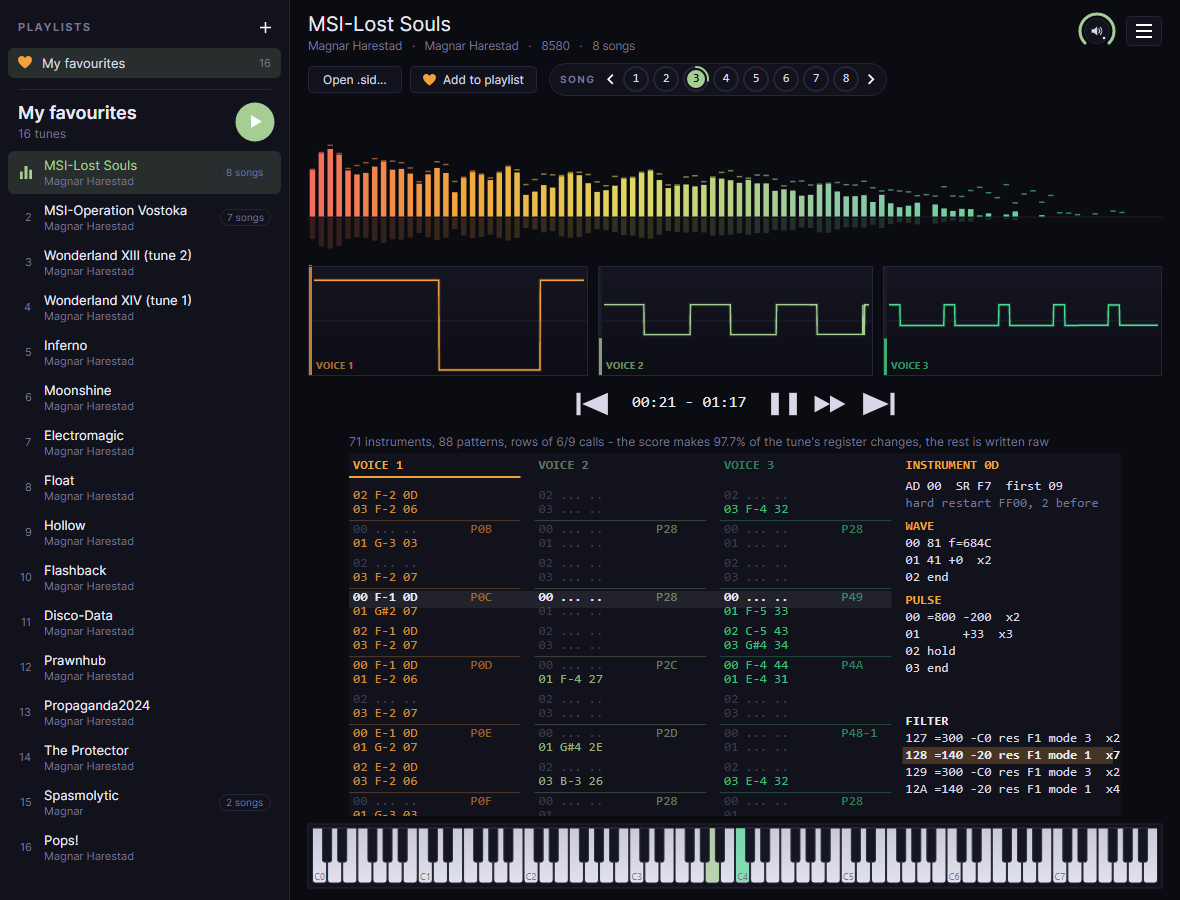
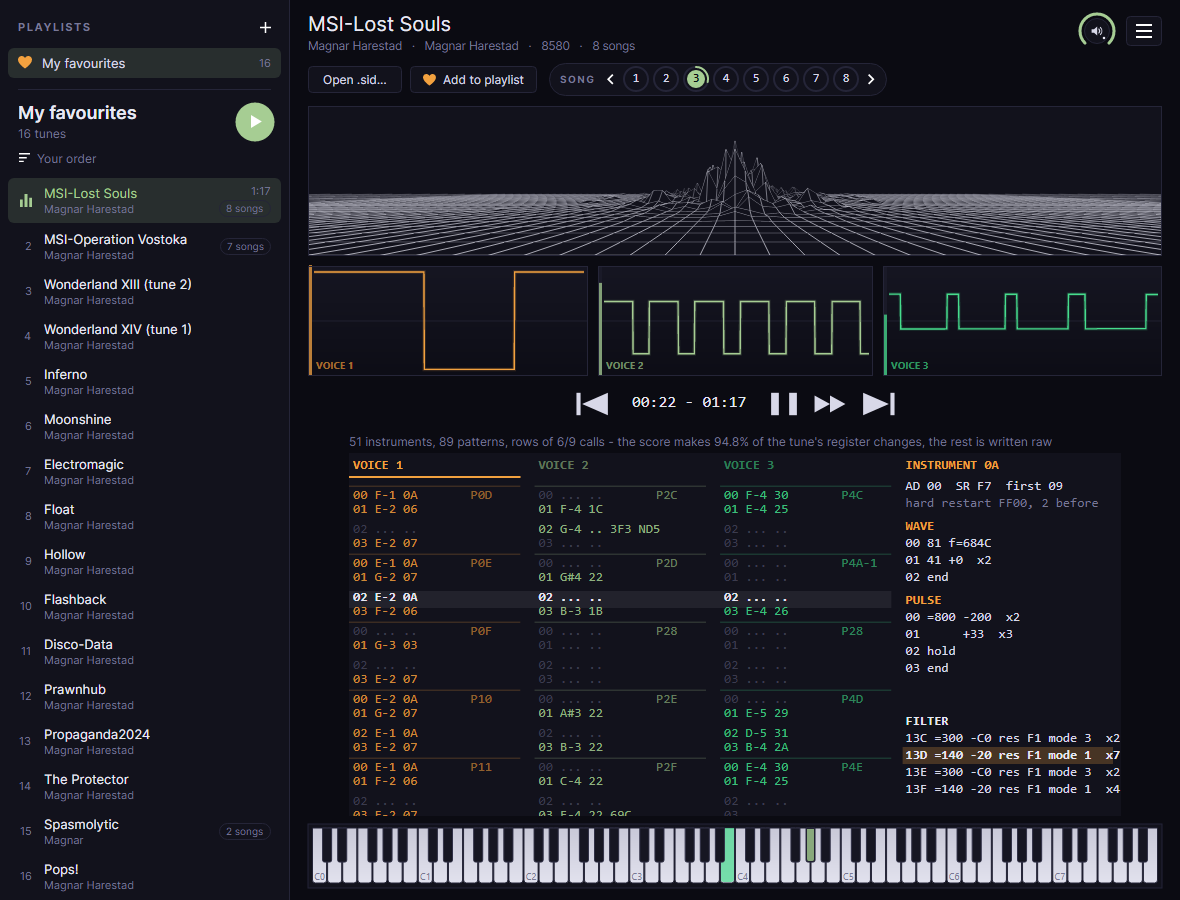
1.22: the website on meters, sorting and Open folder as playlist

diff --git a/docs/index.html b/docs/index.html
@@ -15,8 +15,8 @@
 <main class="wrap">
   <section class="hero">
     <img src="logo.png" alt="MagPlaySID logo">
-    <h1>MagPlaySID <span id="version">v1.21</span></h1>
-    <p class="released">Release date: <time id="released" datetime="2026-10-31">2026-10-31</time></p>
+    <h1>MagPlaySID <span id="version">v1.22</span></h1>
+    <p class="released">Release date: <time id="released" datetime="2026-11-01">2026-11-01</time></p>
     <p>A player for Commodore 64 music that shows how a tune is built. Drop any <code>.sid</code> on it:
       it plays on an emulated C64, and you see it as a tracker would - its notes, instruments and effects
       in rows that scroll with the music. Drop a whole folder and it becomes a playlist; keep the tunes
@@ -25,17 +25,17 @@
       <a class="button" id="windows" href="https://github.com/MagnarHarestad/MagPlaySID/releases/latest">Download for Windows</a>
       <small>Free and open source · Windows 10/11, 64-bit · nothing to install, .NET is inside</small>
       <p class="also">Also for
-        <a id="macos-arm64" href="https://github.com/MagnarHarestad/MagPlaySID/releases/download/v1.21/MagPlaySID-1.21-macos-arm64.zip">macOS · Apple Silicon</a>
-        <a id="macos-x64" href="https://github.com/MagnarHarestad/MagPlaySID/releases/download/v1.21/MagPlaySID-1.21-macos-x64.zip">macOS · Intel</a>
-        <a id="linux-x64" href="https://github.com/MagnarHarestad/MagPlaySID/releases/download/v1.21/MagPlaySID-1.21-linux-x64.tar.gz">Linux · x64</a>
+        <a id="macos-arm64" href="https://github.com/MagnarHarestad/MagPlaySID/releases/download/v1.22/MagPlaySID-1.22-macos-arm64.zip">macOS · Apple Silicon</a>
+        <a id="macos-x64" href="https://github.com/MagnarHarestad/MagPlaySID/releases/download/v1.22/MagPlaySID-1.22-macos-x64.zip">macOS · Intel</a>
+        <a id="linux-x64" href="https://github.com/MagnarHarestad/MagPlaySID/releases/download/v1.22/MagPlaySID-1.22-linux-x64.tar.gz">Linux · x64</a>
         <a class="plain" id="notes" href="https://github.com/MagnarHarestad/MagPlaySID/releases/latest">release notes</a>
         <a class="plain" href="#mac">opening it on a Mac</a></p>
     </div>
   </section>
 
   <figure class="shot">
-    <img src="screenshots/player.png" width="1180" height="900" alt="MagPlaySID playing MSI-Lost Souls from a favourites playlist: the playlist down the left, the tune's eight songs beside Add to playlist with the third playing, a spectrum, a scope per voice, the tune's rows with the selected voice's instrument beside them, and a piano along the bottom">
-    <figcaption>Your favourites as a playlist down the left; a tune's songs as buttons, a ring showing how far the one playing has got; a spectrum and a scope per voice; the tracker rows scrolling beside the instrument sounding and its wave, pulse and filter programs; and a piano lighting each voice's key.</figcaption>
+    <img src="screenshots/player.png" width="1180" height="900" alt="MagPlaySID playing MSI-Lost Souls from a favourites playlist: the playlist down the left, the tune's eight songs beside Add to playlist with the third playing, the sound as a wireframe landscape to fly into, a scope per voice, the tune's rows with the selected voice's instrument beside them, and a piano along the bottom">
+    <figcaption>Your favourites as a playlist down the left; a tune's songs as buttons, a ring showing how far the one playing has got; the sound as a landscape to fly into - one of three meters - and a scope per voice; the tracker rows scrolling beside the instrument sounding and its wave, pulse and filter programs; and a piano lighting each voice's key.</figcaption>
   </figure>
 
   <h2 id="features">What it does</h2>
@@ -49,23 +49,25 @@
     <div class="card"><div class="i">🎛</div><h3>2SID and 3SID</h3><p>Tunes for two or three SID chips play on all of them, each the model its header names, with a scope and score columns for every voice.</p></div>
     <div class="card"><div class="i">📝</div><h3>Sheet music and text</h3><p><b>Export notes</b> in the menu saves the song playing as the rows read it. <b>As sheet music</b>: a PDF with a staff for each voice, its clef chosen line by line, the notes, rests, ties, sharps and naturals in bars of 4/4, and the tempo. <b>As text</b>: each voice's notes, instruments and effects with their bar, beat and time.</p></div>
     <div class="card"><div class="i">📂</div><h3>Drop and play</h3><p>Drag a <code>.sid</code> from the desktop onto the window, open one, or name it on the command line. Space pauses, and the rows stop with the music; in a playlist, the arrow keys go to the tune before or after.</p></div>
-    <div class="card"><div class="i">🎶</div><h3>Playlists</h3><p>Drop a folder of <code>.sid</code> files - or several tunes - on the window and it becomes a playlist down the left, played one tune after another, each moving on once it has played its length. Make playlists of your favourites from any tune with <b>♥ Add to playlist</b> or a right-click; drag a tune up or down to change the order. <b>Show playlists</b> in the menu opens and hides the strip.</p></div>
+    <div class="card"><div class="i">🎶</div><h3>Playlists</h3><p>Drop a folder of <code>.sid</code> files - or several tunes - on the window and it becomes a playlist down the left, played one tune after another, each moving on once it has played its length; <b>Open folder as playlist</b> in the menu does the same. Make playlists of your favourites from any tune with <b>♥ Add to playlist</b> or a right-click; drag a tune up or down to change the order. <b>Show playlists</b> in the menu opens and hides the strip.</p></div>
+    <div class="card"><div class="i">↕</div><h3>Sort a playlist</h3><p>The button above the tunes sorts them by release year, title, composer, group, file date, number of songs, length, recently played or most played - or shuffles them - and your own order is always there to go back to. Playing a tune saves its length and plays on your PC, so those sorts need nothing measured beforehand; tunes not played yet come last.</p></div>
+    <div class="card"><div class="i">🌄</div><h3>Three meters</h3><p>See the sound as classic spectrum bars, as a wireframe landscape to fly into with the bass in peaks down the middle, or as neon bars mirrored about a glowing line. Click the meter for the next, or choose one under <b>Meter</b> in the menu; it is remembered.</p></div>
     <div class="card"><div class="i">🔢</div><h3>Every song</h3><p>A tune of several songs shows them as round buttons beside Add to playlist, the one playing ringed as it goes: click one, or press 1-9, + and -. Previous and Next move between tunes, and <b>Play every song of a tune</b> in the menu plays all of a tune's songs before the next.</p></div>
     <div class="card"><div class="i">⏩</div><h3>Hold to fast-forward</h3><p>Hold the fast-forward button beside play - or the F key - and the tune runs four times as fast, quietly, with the clock, scopes, rows and piano keeping up. Let go and it plays on as before.</p></div>
     <div class="card"><div class="i">⚙</div><h3>Yours to set</h3><p>The knob at the top right sets the volume: drag or scroll it, click to mute. In the menu beside it, <b>Big font</b> makes the rows, the tune's details and the labels a quarter larger. <b>Check for updates at start</b> - asked once, the first time - looks for a newer version each time MagPlaySID opens, and offers this page when there is one.</p></div>
   </div>
 
   <figure class="shot">
-    <img src="screenshots/playlist.png" width="1180" height="900" alt="MagPlaySID playing Golf Dash Extended from a folder dropped on the window: the folder as a playlist above the favourites, its seven tunes listed with how many songs each has, and the tune's three songs beside Add to playlist">
-    <figcaption>A folder dropped on the window, as a playlist above your favourites: its tunes in order, played one after another; the one playing lit; a badge on each tune that has several songs; and a round button that plays the playlist from the top.</figcaption>
+    <img src="screenshots/playlist.png" width="1180" height="900" alt="MagPlaySID playing Golf Dash Extended from a folder dropped on the window: the folder as a playlist above the favourites, its seven tunes listed with how many songs each has and the length of the tune played, a sort button above them, neon meter bars, and the tune's three songs beside Add to playlist">
+    <figcaption>A folder dropped on the window, as a playlist above your favourites: its tunes in order, played one after another; the one playing lit; a badge on each tune that has several songs, and the length of each once played; a button to sort them; a round button that plays the playlist from the top; and here the neon meter.</figcaption>
   </figure>
 
   <h2 id="start">Get started</h2>
   <ol class="steps">
     <li>Download the package for your system from the <a href="https://github.com/MagnarHarestad/MagPlaySID/releases/latest">latest release</a>. .NET is inside - there is nothing else to install.</li>
     <li><b>Windows:</b> unzip it anywhere and run <code>MagPlaySID.exe</code>. <b>Linux:</b> unpack it and run <code>./MagPlaySID</code>. <b>Mac:</b> unzip it and move MagPlaySID to Applications.</li>
-    <li>Drop a <code>.sid</code> on the window, or choose <b>Open .sid...</b> - or drop a whole folder to play it as a playlist. The <a href="https://www.hvsc.c64.org">High Voltage SID Collection</a> has tens of thousands of them.</li>
-    <li>Click a scope to mute its voice; click a voice's rows to see its instrument.</li>
+    <li>Drop a <code>.sid</code> on the window, or choose <b>Open .sid...</b> - or drop a whole folder to play it as a playlist, or choose <b>Open folder as playlist</b> in the menu. The <a href="https://www.hvsc.c64.org">High Voltage SID Collection</a> has tens of thousands of them.</li>
+    <li>Click a scope to mute its voice; click a voice's rows to see its instrument; click the meter to change it.</li>
     <li>Keep the tunes you like: <b>♥ Add to playlist</b> while one plays - and their notes: <b>Export notes</b> in the menu, as sheet music or text. Keys: Space pauses, ← and → change tune in a playlist, 1-9 pick a song, and F held fast-forwards.</li>
   </ol>
   <div class="note">The Windows exe is not code-signed, so Windows SmartScreen may say it comes from an unknown publisher. Choose <b>More info → Run anyway</b>.</div>
@@ -112,7 +114,7 @@
 
 <footer><div class="wrap"><span>© 2026 Magnar Harestad · Censor Design</span><a href="https://github.com/MagnarHarestad/MagPlaySID">Source on GitHub</a><a href="https://github.com/MagnarHarestad/MagPlaySID/releases">Releases</a><a href="https://github.com/MagnarHarestad/MagPlaySID/issues">Report a problem</a><a href="https://magnarharestad.github.io/MagSID/">MagSID Editor</a></div></footer>
 <script>
-// The version, the release date and the downloads follow the latest release; v1.21 stands until
+// The version, the release date and the downloads follow the latest release; v1.22 stands until
 // GitHub answers, or if it does not.
 fetch('https://api.github.com/repos/MagnarHarestad/MagPlaySID/releases/latest')
   .then(response => response.ok ? response.json() : null)
